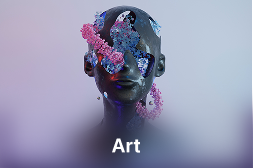
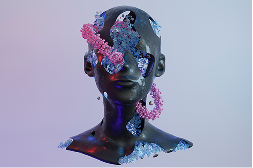
Update

Changed region(s): [[0.0, 0.5952, 1.0, 1.0]]

diff --git a/lib/features/onboarding/widgets/custom_card.dart b/lib/features/onboarding/widgets/custom_card.dart
@@ -13,71 +13,79 @@ class CustomCard extends StatelessWidget {
 
   @override
   Widget build(BuildContext context) {
-    return ClipRRect(
-            child: BackdropFilter(
-              filter: ImageFilter.blur(sigmaX: BlurValue.b10, sigmaY: BlurValue.b10),
-              child: Container(
-                alignment: Alignment.center,
-                height: HeightValue.h190,
-                width: WidthValue.w300,
-                decoration: BoxDecoration(
-                  color: ColorManager.kcolor3.withValues(alpha: CustomeAlpha.b0_1),
-                  borderRadius: BorderRadius.circular(RadiusValue.r20),
-                  border: Border.all(
-                    color: ColorManager.kcolor3.withValues(alpha: CustomeAlpha.b0_1),
+    return Center(
+      child: ClipRRect(
+        borderRadius: BorderRadius.circular(RadiusValue.r20),
+        child: BackdropFilter(
+          filter: ImageFilter.blur(sigmaX: BlurValue.b10, sigmaY: BlurValue.b10),
+          child: Container(
+            width: WidthValue.w300,
+            padding: const EdgeInsets.symmetric(horizontal: 20, vertical: 22),
+            decoration: BoxDecoration(
+              color: ColorManager.kcolor3.withValues(alpha: CustomeAlpha.b0_1),
+              borderRadius: BorderRadius.circular(RadiusValue.r20),
+              border: Border.all(
+                color: ColorManager.kcolor3.withValues(alpha: CustomeAlpha.b0_1),
+              ),
+            ),
+            child: Column(
+              mainAxisSize: MainAxisSize.min,
+              children: [
+                Text(
+                  StringManager.kMessage,
+                  textAlign: TextAlign.center,
+                  style: TextStyle(
+                    color: ColorManager.kcolor3,
+                    fontSize: FontSize.kFontSize20,
+                    fontWeight: FontWeight.bold,
                   ),
                 ),
-                child: Column(
-                  children: [
-                    SizedBox(height: HeightValue.h27_5),
-                    Text(
-                      StringManager.kMessage,
-                      style: TextStyle(
-                        color: ColorManager.kcolor3,
-                        fontSize: FontSize.kFontSize20,
-                        fontWeight: FontWeight.bold,
-                      ),
+                SizedBox(height: HeightValue.h5),
+                Text(
+                  textAlign: TextAlign.center,
+                  StringManager.kMessage2,
+                  style: TextStyle(
+                    color: ColorManager.kcolor4,
+                    fontSize: FontSize.kFontSize12,
+                  ),
+                ),
+                const SizedBox(height: 24),
+                Container(
+                  width: WidthValue.w198_2,
+                  decoration: BoxDecoration(
+                    borderRadius: BorderRadius.circular(RadiusValue.r40),
+                    border: Border.all(
+                      color: ColorManager.kcolor5.withValues(alpha: CustomeAlpha.b0_5),
                     ),
-                    SizedBox(height: HeightValue.h5),
-                    Text(
-                      textAlign: TextAlign.center,
-                      StringManager.kMessage2,
-                      style: TextStyle(
-                        color: ColorManager.kcolor4,
-                        fontSize: FontSize.kFontSize12,
-                      ),
-                    ),
-                    SizedBox(height: HeightValue.h27_5),
-                    Container(
-                      width: WidthValue.w198_2,
-                      decoration: BoxDecoration(
-                        borderRadius: BorderRadius.circular(RadiusValue.r40),
-                        border: Border.all(
-                          color: ColorManager.kcolor5.withValues(alpha: CustomeAlpha.b0_5),
-                        ),
-                        color: ColorManager.kcolor5.withValues(alpha: CustomeAlpha.b0_5),
-                      ),
-                      child: ClipRRect(
-                        borderRadius: BorderRadius.circular(RadiusValue.r40),
-                        child: BackdropFilter(
-                          filter: ImageFilter.blur(sigmaX: BlurValue.b15, sigmaY: BlurValue.b15),
-                          child: MaterialButton(
-                            onPressed: () {
-                              Navigator.pushNamed(context, RoutName.kHome);
-                            },
-                            child: Text(StringManager.kbutton2,style: TextStyle(
-                              color: ColorManager.kcolor3,
-                              fontSize: FontSize.kFontSize16,
-                              fontWeight: FontWeight.bold,
-                            ),),
+                    color: ColorManager.kcolor5.withValues(alpha: CustomeAlpha.b0_5),
+                  ),
+                  child: ClipRRect(
+                    borderRadius: BorderRadius.circular(RadiusValue.r40),
+                    child: BackdropFilter(
+                      filter: ImageFilter.blur(sigmaX: BlurValue.b15, sigmaY: BlurValue.b15),
+                      child: MaterialButton(
+                        minWidth: WidthValue.w198_2,
+                        padding: const EdgeInsets.symmetric(vertical: 12),
+                        onPressed: () {
+                          Navigator.pushNamed(context, RoutName.kHome);
+                        },
+                        child: Text(
+                          StringManager.kbutton2,
+                          style: TextStyle(
+                            color: ColorManager.kcolor3,
+                            fontSize: FontSize.kFontSize16,
+                            fontWeight: FontWeight.bold,
                           ),
                         ),
                       ),
                     ),
-                  ],
+                  ),
                 ),
-              ),
+              ],
             ),
-          );
+          ),
+        ),
+      ),
+    );
   }
 }

diff --git a/lib/features/onboarding/widgets/custom_category_home_page.dart b/lib/features/onboarding/widgets/custom_category_home_page.dart
@@ -1,0 +1,73 @@
+import 'dart:ui';
+
+import 'package:flutter/material.dart';
+import 'package:mini_nft_app/core/resources/color_manager.dart';
+import 'package:mini_nft_app/core/resources/font_manager.dart';
+import 'package:mini_nft_app/core/resources/size_manager.dart';
+import 'package:mini_nft_app/models/category_model.dart';
+
+class CustomCategoryHomePage extends StatelessWidget {
+  const CustomCategoryHomePage({super.key, required this.category});
+
+  final CategoryModel category;
+
+  @override
+  Widget build(BuildContext context) {
+    return Stack(
+      children: [
+        ClipRRect(
+          borderRadius: BorderRadius.circular(RadiusValue.r27),
+          child: Image(
+            image: AssetImage(category.image),
+            width: WidthValue.w252,
+            height: HeightValue.h167,
+          ),
+        ),
+        Positioned(
+          left: 0,
+          right: 0,
+          bottom: 0,
+          child: ClipRRect(
+            borderRadius: const BorderRadius.only(
+              bottomLeft: Radius.circular(RadiusValue.r27),
+              bottomRight: Radius.circular(RadiusValue.r27),
+            ),
+            child: BackdropFilter(
+              filter: ImageFilter.blur(
+                sigmaX: BlurValue.b3,
+                sigmaY: BlurValue.b3,
+              ),
+              child: Container(
+                alignment: Alignment.center,
+                decoration: BoxDecoration(
+                  gradient: LinearGradient(
+                    begin: Alignment.topCenter,
+                    end: Alignment.bottomCenter,
+                    colors: [
+                      ColorManager.kimageColor.withValues(
+                        alpha: OpacityValue.o0,
+                      ),
+                      ColorManager.kimageColor.withValues(
+                        alpha: OpacityValue.o0_45,
+                      ),
+                    ],
+                  ),
+                ),
+                width: WidthValue.w252,
+                height: HeightValue.h52,
+                child: Text(
+                  category.title,
+                  style: TextStyle(
+                    color: ColorManager.kcolor3,
+                    fontSize: FontSize.kFontSize20,
+                    fontWeight: FontWeight.bold,
+                  ),
+                ),
+              ),
+            ),
+          ),
+        ),
+      ],
+    );
+  }
+}

diff --git a/test/widget_test.dart b/test/widget_test.dart
@@ -9,7 +9,9 @@ import 'package:flutter/material.dart';
 import 'package:flutter_test/flutter_test.dart';
 
 import 'package:mini_nft_app/app/my_app.dart';
+import 'package:mini_nft_app/core/resources/constants.dart';
 import 'package:mini_nft_app/features/home/home.dart';
+import 'package:mini_nft_app/features/onboarding/widgets/custom_category_home_page.dart';
 
 void main() {
   testWidgets('opens onboarding and navigates to home', (
@@ -29,5 +31,39 @@ void main() {
     await tester.pumpAndSettle();
 
     expect(find.byType(HomePage), findsOneWidget);
+  });
+
+  testWidgets('displays each category with its own name and image', (
+    WidgetTester tester,
+  ) async {
+    tester.view.physicalSize = const Size(900, 844);
+    tester.view.devicePixelRatio = 1;
+    addTearDown(tester.view.resetPhysicalSize);
+    addTearDown(tester.view.resetDevicePixelRatio);
+
+    await tester.pumpWidget(const MaterialApp(home: HomePage()));
+
+    final categoryCards = tester.widgetList<CustomCategoryHomePage>(
+      find.byType(CustomCategoryHomePage),
+    );
+    expect(categoryCards.length, Constants.categoryList.length);
+
+    for (var index = 0; index < Constants.categoryList.length; index++) {
+      final category = Constants.categoryList[index];
+      final card = categoryCards.elementAt(index);
+
+      expect(card.category.title, category.title);
+      expect(card.category.image, category.image);
+      expect(find.text(category.title), findsOneWidget);
+      expect(
+        find.byWidgetPredicate(
+          (widget) =>
+              widget is Image &&
+              widget.image is AssetImage &&
+              (widget.image as AssetImage).assetName == category.image,
+        ),
+        findsOneWidget,
+      );
+    }
   });
 }

diff --git a/lib/features/home/home.dart b/lib/features/home/home.dart
@@ -1,10 +1,10 @@
 import 'package:flutter/material.dart';
 import 'package:mini_nft_app/core/resources/color_manager.dart';
+import 'package:mini_nft_app/core/resources/constants.dart';
 import 'package:mini_nft_app/core/resources/font_manager.dart';
-import 'package:mini_nft_app/core/resources/images_manager.dart';
 import 'package:mini_nft_app/core/resources/size_manager.dart';
 import 'package:mini_nft_app/core/resources/string_manager.dart';
-import 'package:mini_nft_app/features/onboarding/widgets/custom_home_page.dart';
+import 'package:mini_nft_app/features/onboarding/widgets/custom_category_home_page.dart';
 
 class HomePage extends StatelessWidget {
   const HomePage({super.key});
@@ -22,12 +22,23 @@ class HomePage extends StatelessWidget {
             fontSize: FontSize.kFontSize25,
           ),
         ),
-        backgroundColor: Colors.transparent
+        backgroundColor: Colors.transparent,
       ),
-      body :Column(
+      body: Column(
         children: [
-          Image (image: AssetImage(ImagesManager.khomeImage1),),
-           
+          SizedBox(
+            height: HeightValue.h167,
+            child: ListView.separated(
+              scrollDirection: Axis.horizontal,
+              itemBuilder: (context, index) {
+                final category = Constants.categoryList[index];
+                return CustomCategoryHomePage(category: category);
+              },
+              separatorBuilder: (context, index) =>
+                  SizedBox(width: WidthValue.w10),
+              itemCount: Constants.categoryList.length,
+            ),
+          )
         ],
       ),
       backgroundColor: ColorManager.kprimaryColor,

diff --git a/lib/core/resources/size_manager.dart b/lib/core/resources/size_manager.dart
@@ -4,17 +4,37 @@ class HeightValue {
   static const double h5 =5;
   static const double h190 =190;
   static const double h12 =12;
+  static const double h167 =167;
+  static const double h60 =60;
+  static const double h52 =52;
   }
 class BlurValue {
   static const double b10 =10;
   static const double b15 =15;
-    
+  static const double b27 =27;
+  static const double b18 =18;
+  static const double b3 =3;
+
   }
   class WidthValue {
   static const double w198_2 =198.2;
   static const double w300 =300;
+  static const double w252 =252;
+  static const double w260 =260;
+  static const double w10 =10;
   }
   class RadiusValue {
   static const double r20 =20;
   static const double r40 =40;
+  static const double r27 =27;
+  }
+
+  class OpacityValue {
+    static const double o0_5 =0.5;
+    static const double o0_20 =0.20;
+    static const double o0 =0.0;
+    static const double o0_45 =0.45;
+  }
+  class PositionValue {
+    static const double b0 =0;
   }

diff --git a/lib/core/resources/constants.dart b/lib/core/resources/constants.dart
@@ -1,0 +1,11 @@
+import 'package:mini_nft_app/core/resources/images_manager.dart';
+import 'package:mini_nft_app/models/category_model.dart';
+
+class Constants {
+  static const List<CategoryModel> categoryList = [
+    
+    CategoryModel(title: 'Music', image: ImagesManager.khomeImage2),
+    CategoryModel(title: 'Art', image: ImagesManager.khomeImage1),
+    CategoryModel(title: 'Virtual Worlds', image: ImagesManager.khomeImage3),
+  ];
+}

diff --git a/lib/core/resources/string_manager.dart b/lib/core/resources/string_manager.dart
@@ -5,5 +5,5 @@ class StringManager {
       "You can buy and sell the NFTs of the\nbest artists in the world.";
   static const String kbutton2 = "Get Started now";
   static const String khomeText1 = "NFT Marketplace";
-  
+  static const String kimageText1 = "Art";
 }

diff --git a/lib/core/resources/color_manager.dart b/lib/core/resources/color_manager.dart
@@ -7,4 +7,6 @@ class ColorManager {
   static const Color kcolor4 = Color(0xFFEBEBF5);
   static const Color kcolor5 = Color(0xFF97A9F6);
   static const Color kprimaryColor = Color(0xFF211134);
+  static const Color kimageColor = Color(0xFF000000);
+  
 }

diff --git a/lib/models/category_model.dart b/lib/models/category_model.dart
@@ -1,0 +1,6 @@
+class CategoryModel {
+  final String title;
+  final String image;
+
+  const CategoryModel({required this.title, required this.image});
+}
